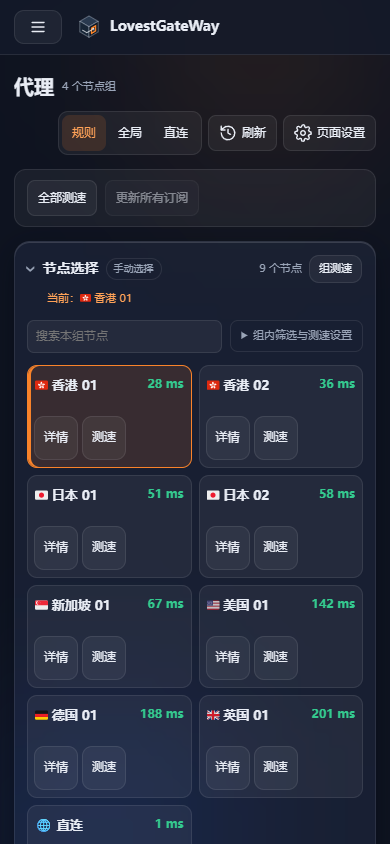
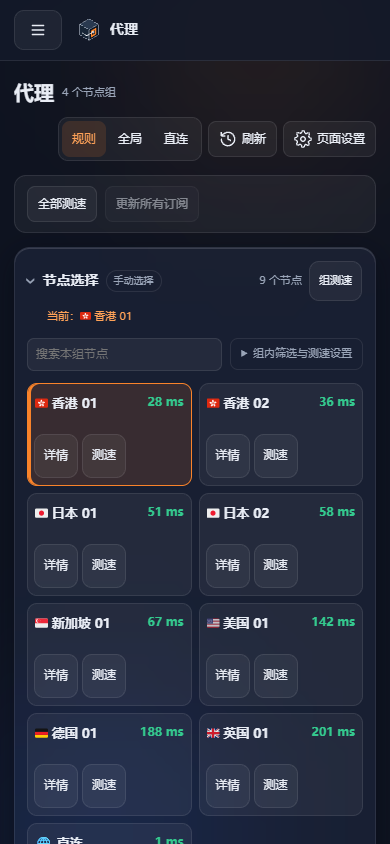
Prepare LovestGateWay v0.2.8 release

diff --git a/docs/releases/0.2.8.md b/docs/releases/0.2.8.md
@@ -1,0 +1,9 @@
+# LovestGateWay v0.2.8
+
+- 订阅与策略编辑加强规则目标、规则集引用和格式校验。错误会指向对应字段或规则，Mihomo 子规则循环引用会显示专用提示。规则页支持查看测试命中的节点组、定位规则及清除定位。
+- 符合热重载条件的静态策略修改可保留现有 TCP 连接。节点组改名后继承仍然有效的节点选择和锁定，加载失败时恢复原策略并核对服务。
+- 实时日志支持查看近期记录，短暂断线后会补读。续传超出缓存范围时会提示缺口。
+- 手机端显示当前页名，设置和诊断预览支持滚动、键盘取消和焦点返回。区域检测开启隐藏 IP 后，详情、复制和导出也会脱敏。
+- 大连接列表减少对其他 Web 请求的影响，静态资源支持压缩和缓存校验。登录失败限流按 IPv6 `/64` 网段归并，Rust 依赖包含安全更新。
+
+在「设置 → 维护与 API → LovestGateWay 更新」中升级，或按[安装与升级指南](https://github.com/Lovest20018/LovestGateWay/blob/main/docs/debian-deployment.md)操作。升级沿用现有配置和订阅，服务重启期间转发会短暂中断，完成后刷新页面并重新登录。

diff --git a/README.md b/README.md
@@ -23,13 +23,13 @@
 
 桌面与手机使用同一套面板，支持侧栏收起、亮暗主题和大列表分批展示。日常使用无需开启对外观测 API。
 
-## v0.2.7
+## v0.2.8
 
-- 定时和手动订阅刷新按运行设置生成候选，生效配置等价时跳过重启，并记录应用决定。
-- 手动和月度流量清零保留活跃连接。聚合流量从清零后重新统计，实时图表与运行历史标出计数断点。
-- 观测采集区分短暂中断与持续故障，设置页明确显示 HNM 所需的 API 服务根地址。
+- 规则与订阅编辑可定位校验错误，规则测试可直接跳到命中项。
+- 静态策略热重载继承改名节点组的选择，实时日志支持断线补读。
+- 手机端改善配置预览和草稿保护。区域检测开启隐藏 IP 后，详情、复制和导出也会脱敏。
 
-升级沿用已有的组模式及故障转移、历史采集开关。详细说明见 [v0.2.7 发布说明](docs/releases/0.2.7.md)。
+升级沿用已有的组模式及故障转移、历史采集开关。详细说明见 [v0.2.8 发布说明](docs/releases/0.2.8.md)。
 
 ## 界面预览
 

diff --git a/docs/upstream-maintenance.md b/docs/upstream-maintenance.md
@@ -12,7 +12,7 @@ LovestGateWay 保持为 [kkkgo/PaoPaoGateWay](https://github.com/kkkgo/PaoPaoGat
 | `reviewed_head` | 已完成逐项判断的上游提交 | `8a165c2b1dcbb3f21426791e155ec88e4c5e9a84` |
 | `reviewed_release` | 已审查的上游稳定发布 | `20261120-8a165c2` |
 
-`f45e3d9` 的规则格式自动识别后端已移植。`8a165c2` 的活跃连接保留与流量清零修复随 LovestGateWay v0.2.7 交付。日志补读、ETag、连接快照序列化和依赖更新留待单独评审。完整取舍记录在台账的 `decisions` 中。
+`f45e3d9` 的规则格式自动识别后端已移植。`8a165c2` 的活跃连接保留与流量清零修复随 LovestGateWay v0.2.7 交付。v0.2.8 适配了日志补读、ETag、连接快照、登录来源归并和 Rust 依赖更新。完整取舍记录在台账的 `decisions` 中。
 
 ## 自动发现
 

diff --git a/CHANGELOG.md b/CHANGELOG.md
@@ -2,6 +2,13 @@
 
 正式安装包及发布清单见 [GitHub Releases](https://github.com/Lovest20018/LovestGateWay/releases)。本页索引用户可见变化，完整发布说明保存在 `docs/releases/`。
 
+## [v0.2.8](docs/releases/0.2.8.md) · 2026-11-27
+
+- 改善规则和规则集校验及错误定位，增加 Mihomo 子规则循环引用提示。
+- 静态策略热重载可继承改名节点组的选择和锁定，失败后恢复原策略。
+- 实时日志支持补读，优化大连接快照、静态资源缓存和登录失败限流。
+- 改善手机预览和键盘操作，区域检测统一隐藏详情、复制和导出中的 IP。更新 Rust 依赖。
+
 ## [v0.2.7](docs/releases/0.2.7.md) · 2026-11-21
 
 - 定时和手动订阅刷新按运行设置比较候选，等价时跳过重启，并记录刷新结果与应用原因。

diff --git a/docs/images/README.md b/docs/images/README.md
@@ -2,7 +2,7 @@
 
 README 使用真实前端源码和完全虚构的演示数据生成截图，不连接运行中的网关。节点名称、统计值、版本显示及文档示例地址均不代表真实部署或性能结果。
 
-- `overview.png`：v0.2.7 桌面概览与近 24 小时运行历史，亮色。
+- `overview.png` 展示 v0.2.8 的亮色桌面概览与近 24 小时运行历史。
 - `proxies.png`：桌面代理页面，亮色。
 - `mobile-dark.png`：390px 手机代理页面，暗色。
 

diff --git a/docs/README.md b/docs/README.md
@@ -2,7 +2,7 @@
 
 适用于 LovestGateWay Debian 正式版。首次使用从安装指南开始；日常设置通过 Web 完成。
 
-版本 [v0.2.7](releases/0.2.7.md) · [更新记录](../CHANGELOG.md) · [正式安装包](https://github.com/Lovest20018/LovestGateWay/releases/latest)
+版本 [v0.2.8](releases/0.2.8.md) · [更新记录](../CHANGELOG.md) · [正式安装包](https://github.com/Lovest20018/LovestGateWay/releases/latest)
 
 | 需求 | 文档 |
 | --- | --- |
